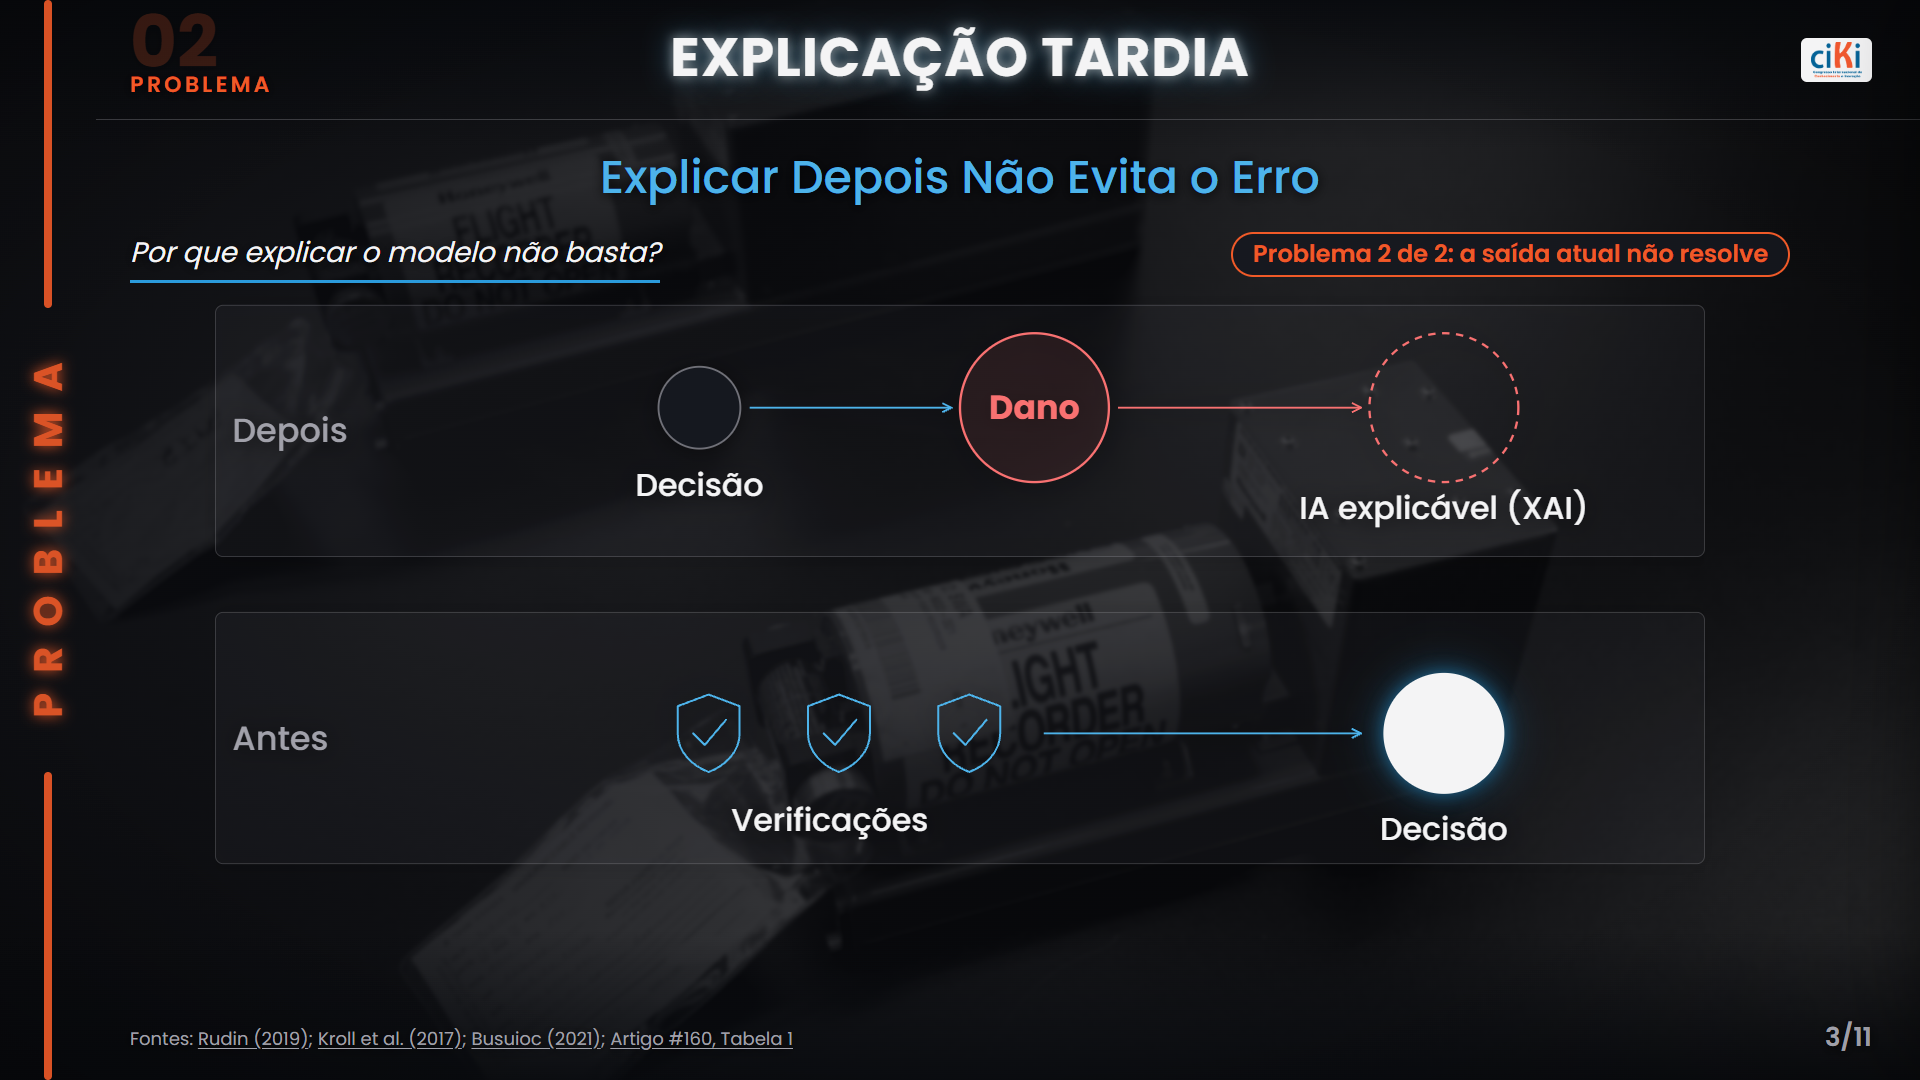
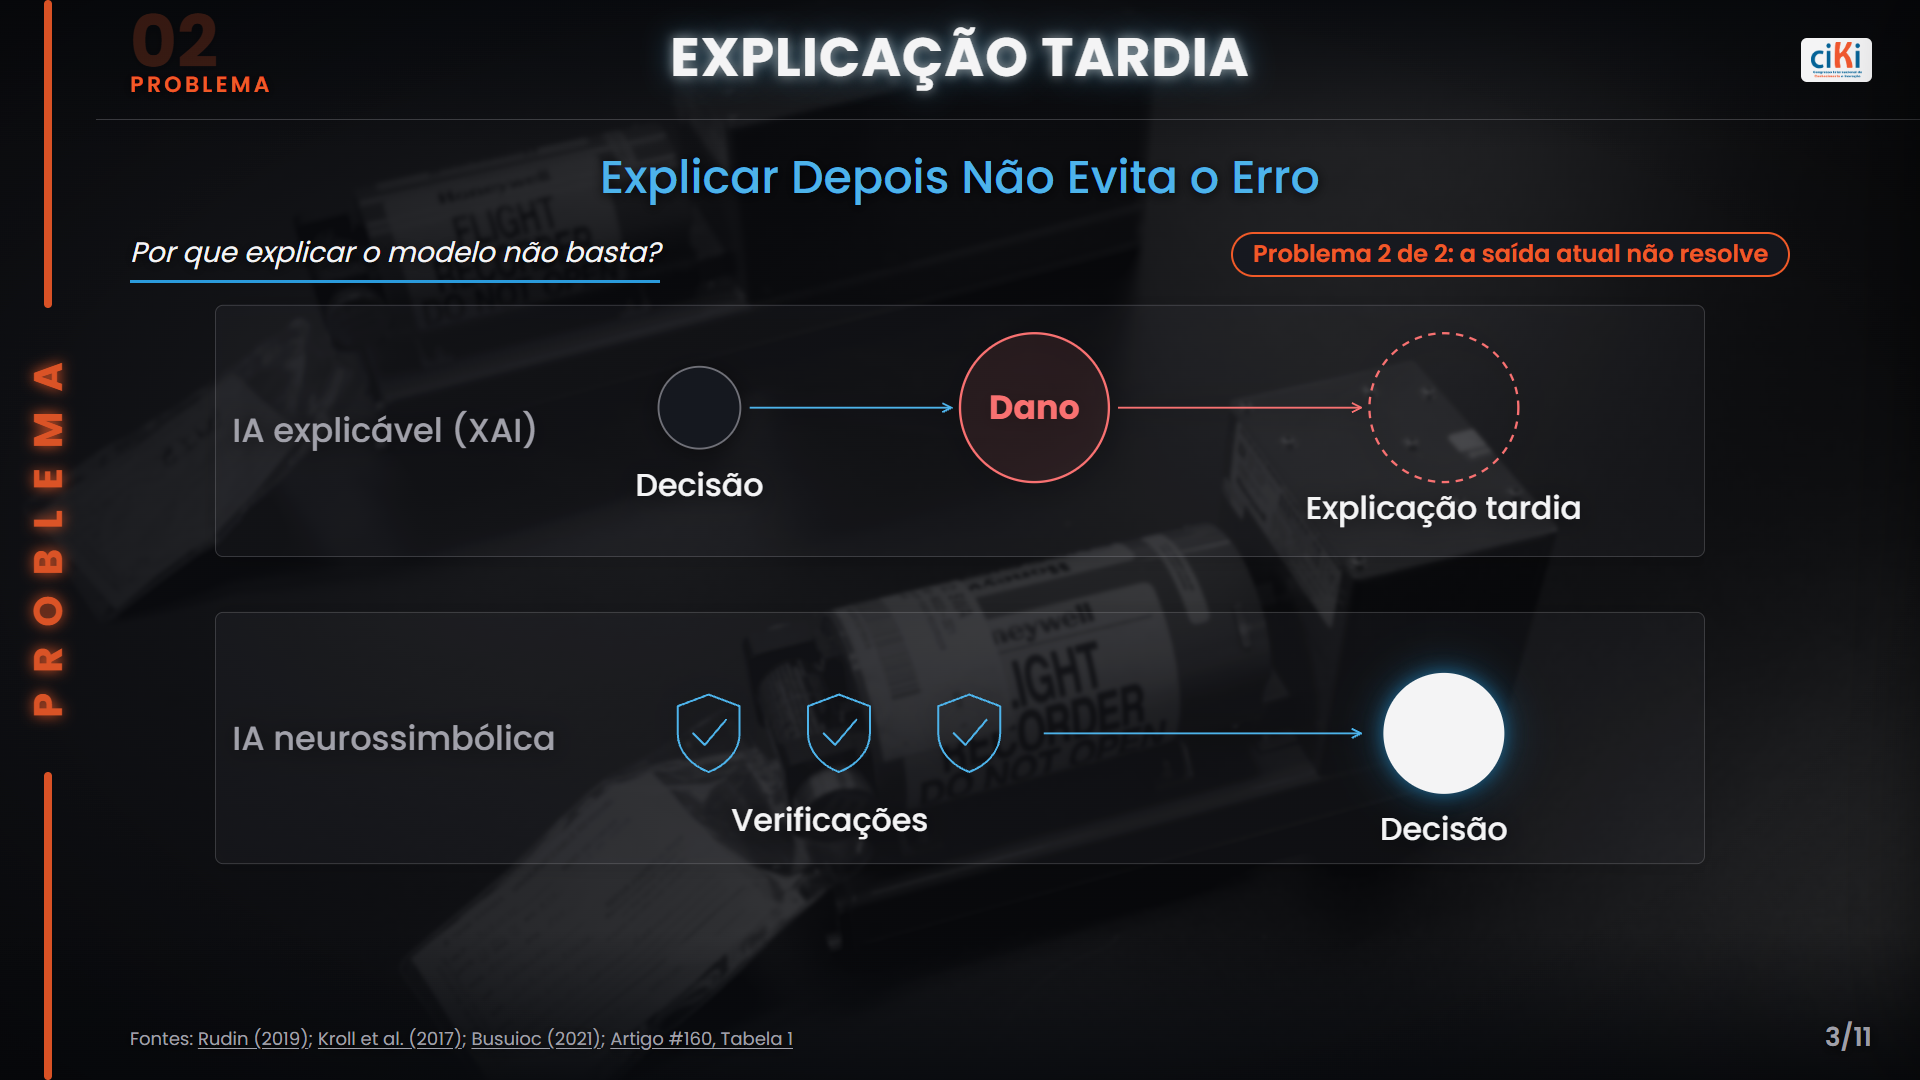
Slide 3: linhas rotuladas IA explicável (XAI) e IA neurossimbólica

Changed region(s): [[0.125, 0.3667, 0.2812, 0.4278], [0.6562, 0.4583, 0.8438, 0.4889], [0.125, 0.6722, 0.2812, 0.7028]]

diff --git a/web/deck.js b/web/deck.js
@@ -389,11 +389,11 @@ function zoomMundo(s, step) {
 }
 
 HEROES.s3 = K => {
-  const l1 = K.lane({ x: 0, y: 10, w: 1600, h: 270, t: 'Depois', size: 36, step: 1 }) + K.node({ cx: 520, cy: 120, r: 44, step: 2 }) + K.text({ x: 520, y: 215, t: 'Decisão', size: 34, anchor: 'middle' }) +
+  const l1 = K.lane({ x: 0, y: 10, w: 1600, h: 270, t: 'IA explicável (XAI)', size: 36, step: 1 }) + K.node({ cx: 520, cy: 120, r: 44, step: 2 }) + K.text({ x: 520, y: 215, t: 'Decisão', size: 34, anchor: 'middle' }) +
     K.arrow({ pts: [[574, 120], [790, 120]], step: 3 }) + K.node({ cx: 880, cy: 120, r: 80, t: 'Dano', size: 36, tone: 'err', fill: true, step: 4 }) +
-    K.arrow({ pts: [[970, 120], [1230, 120]], tone: 'late', dash: true, step: 5 }) + K.ring({ cx: 1320, cy: 120, r: 80, dash: true, tone: 'late', step: 6 }) + K.text({ x: 1320, y: 240, t: 'IA explicável (XAI)', size: 34, anchor: 'middle', tone: 'late' });
+    K.arrow({ pts: [[970, 120], [1230, 120]], tone: 'late', dash: true, step: 5 }) + K.ring({ cx: 1320, cy: 120, r: 80, dash: true, tone: 'late', step: 6 }) + K.text({ x: 1320, y: 240, t: 'Explicação tardia', size: 34, anchor: 'middle', tone: 'late' });
   const sh = [480, 620, 760].map((x, i) => K.pic('verificar', { x, y: 420, s: 100, pos: 'none', step: 8 + i })).join('');
-  const l2 = K.lane({ x: 0, y: 340, w: 1600, h: 270, t: 'Antes', size: 36, step: 7 }) + sh + K.text({ x: 660, y: 575, t: 'Verificações', size: 34, anchor: 'middle', step: 11 }) +
+  const l2 = K.lane({ x: 0, y: 340, w: 1600, h: 270, t: 'IA neurossimbólica', size: 36, step: 7 }) + sh + K.text({ x: 660, y: 575, t: 'Verificações', size: 34, anchor: 'middle', step: 11 }) +
     K.arrow({ pts: [[890, 470], [1230, 470]], step: 12 }) + K.node({ cx: 1320, cy: 470, r: 64, fill: 'solid', step: 13 }) + K.text({ x: 1320, y: 585, t: 'Decisão', size: 34, anchor: 'middle', step: 13 });
   return K.svg(1600, 720, OG('<g data-open=\"s3-tab1\" aria-label=\"Explicar depois: decisão, dano, explicação tardia. Ver a Tabela 1 do artigo\">', HIT(0, 0, 1600, 290) + l1) +
     OG('<g data-open=\"s3-rudin\" aria-label=\"Verificar antes: portões antes da decisão. Ver Rudin 2019\">', HIT(0, 330, 1600, 290) + l2), 'Duas linhas do tempo: explicar depois do dano ou verificar antes da decisão');

diff --git a/web/index.html b/web/index.html
@@ -334,6 +334,6 @@
 <script src="lib/three.min.js"></script>
 <script src="img/mundo.js"></script>
 <script src="matrix8.js"></script>
-<script src="deck.js?v=10"></script>
+<script src="deck.js?v=11"></script>
 </body>
 </html>
